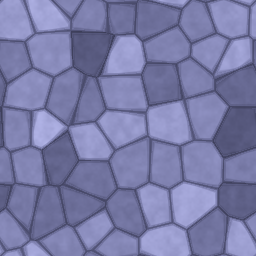
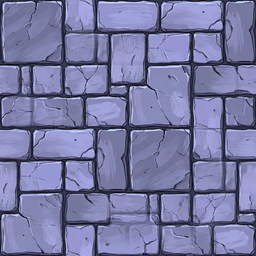
Give the crawl a painted room, and stop crushing a whole material into one tile
NOT THIS SESSION'S WORK. The art session's D267, committed on my user's instruction
rather than at its author's resting point. The account below is read off the entry and
the diff.

Asked: "I have the feeling that the art of this game does not follow one single
style. I like the backgrounds but not the iso game." Both halves were right, and the
second had a mechanical cause.

Counted off fresh captures, the game spoke six dialects, and the crawl was wearing the
wrong one. `iso_run.gd` is the only `UI.screen()` caller that names neither a scene nor
a zone, so it fell through to `PixelArt.backdrop()` — the screen with the most turns in
it was the last live user of the Kenney pixel set, on a clear colour, while every other
screen had a painting behind it. The comment two lines above the call said the
opposite. It now gets its own dungeon's battle backdrop at `UI.CRAWL_DIM` = 0.78.

The scale bug is why the materials had to be noise. `_draw_ground` mapped UV 0..1
across ONE tile, so one repeat of a 256px texture was crushed into 116x58 and every
feature arrived at about a fifth of its drawn size, cut off at every tile edge by a
deliberately discontinuous per-cell offset. Survivable for noise, fatal for paint — the
first painted crypt floor came back looking WORSE than the computed one it replaced,
because the picture was good and the projection destroyed it. The UV now comes off the
grid: `GROUND_UV_TILES` = 3, continuous across every shared edge, and the period does
[…]

diff --git a/DESIGN.md b/DESIGN.md
@@ -255,6 +255,7 @@ Entries are not in numeric order in the file below; this is the way in.
 | **D264** | [The endpoint generator is deleted, and two of its rules outlived it](#d264--the-endpoint-generator-is-deleted-and-two-of-its-rules-outlived-it) |
 | **D265** | [Fights got a shape, and the reason the 5x never assembles is the price list](#d265--fights-got-a-shape-and-the-reason-the-5x-never-assembles-is-the-price-list) |
 | **D266** | [A metric that measures the player, and it says the 5x was there all along](#d266--a-metric-that-measures-the-player-and-it-says-the-5x-was-there-all-along) |
+| **D267** | [The floor was drawn at a fifth of its size, so nothing painted on it could survive](#d267--the-floor-was-drawn-at-a-fifth-of-its-size-so-nothing-painted-on-it-could-survive) |
 
 **D1–D34 are not in that table.** They were settled before the log grew
 sections and live as bullets under [§4 Design decisions](#4-design-decisions).
@@ -18270,3 +18271,125 @@ per energy and this is a draw-quality effect.
 
 That is a reward that makes you worse, and until now there was no number in this tool that could
 show one.
+
+### D267 — The floor was drawn at a fifth of its size, so nothing painted on it could survive
+
+Asked: *"I have the feeling that the art of this game does not follow one single style. I like
+the backgrounds but not the iso game."*
+
+Both halves are right, and the second half had a mechanical cause nobody had looked for.
+
+#### Six dialects, and the crawl was wearing the wrong one
+
+Fresh captures first, because `docs/screenshots/` was from 2 August and predates D202 and D260.
+What the game speaks, counted off them:
+
+| dialect | where |
+|---|---|
+| painted, inked, dark | 12 dungeon backdrops, the scene and zone shots, the title screen, 35 enemy plates, ~100 card faces |
+| painted, but high key | 38 relic icons |
+| flat vector clip art | 30 power sigils |
+| computed noise and geometry | the iso floors, walls and props |
+| painted cutouts | the iso hero and 70 creature fronts |
+| Kenney 16x16 pixel | 5 zone patterns, 1 card sheet |
+
+The last row was supposed to be a dormant fallback. It was not. **`iso_run.gd` is the only
+`UI.screen()` caller in the game that names neither a scene nor a zone**, so it fell through to
+`PixelArt.backdrop()` — and the comment two lines above the call said the opposite. The screen
+with the most turns in it was the last live user of the pixel dialect, on a clear colour, while
+every other screen in the game had a painting behind it. It now gets its own dungeon's battle
+backdrop at `UI.CRAWL_DIM` = 0.78: the walk and the fight happen in the same room.
+
+#### The scale bug, which is why the materials had to be noise
+
+`gen_iso_art.gd` samples each terrain's ramp from the floor band of the backdrops that use it,
+so the computed materials agree with the paintings on COLOUR by construction. They agree on
+nothing else — no ink, no brush, no stonework — and that had been invisible for a reason that is
+arithmetic rather than taste.
+
+**Every diamond took the whole material.** `_draw_ground` mapped UV 0..1 across one tile with a
+per-cell offset, so one repeat of a 256px texture was crushed into 116x58 and every feature in
+it arrived at about a fifth of the size it was drawn at. A flagstone painted a third of the way
+across its texture arrived five to a tile and read as gravel. The offset was deliberately
+DISCONTINUOUS between neighbours as well, so every feature was also cut off at every tile edge.
+
+That is survivable for noise. It is fatal for anything painted, and it is why the first painted
+crypt floor came back looking WORSE than the computed one it replaced — the picture was good
+and the projection destroyed it.
+
+So the UV comes off the grid instead. A diamond's corners are the grid points
+`(x±0.5, y±0.5)`, so dividing by `GROUND_UV_TILES` = 3 gives one repeat every three tiles,
+continuous across every shared edge. A stone crossing a tile boundary continues on the other
+side. The per-cell offset is gone and its job — stopping the floor reading as wallpaper — goes
+to the period, which is now three tiles long instead of one.
+
+**The walls needed the same fix and their axes are not obvious.** A block's top face is in the
+floor's plane and takes the floor's UV. Its left face stands on the grid line `y + 0.5` running
+along X, and the left face of `(x+1, y)` starts exactly where it ends; its right face stands on
+`x + 0.5` running along Y, joined the same way to `(x, y+1)`. So the two side faces draw one
+unbroken course of masonry along whichever axis the wall runs. `WALL_UV_TILES` is 2 rather than
+3 because a side face is a 58px sliver where a floor diamond is 116px wide, and the same number
+would draw the wall's stone at half the size of the floor's.
+
+#### Ink and shadow, which the style rule had always asked for
+
+The paintings put a 2-3px dark outline on every foreground object and nothing the floor drew had
+one, so the painted hero read as a sticker laid on a texture. Two rules keep the new ink from
+becoming the lattice D87 deleted: **it is drawn on silhouettes, never on tiles** — a floor edge
+only where the neighbour is not ground, a rock edge only where the neighbour is not rock — so a
+run of blocks is one inked mass and a room is one inked slab.
+
+And every figure was hovering. D202 told the generator not to paint a drop shadow and
+`demagenta.gd` lifts whatever survived, which is right for the FILE. The shadow is now drawn by
+the view, so it lands on the ground the figure is standing on and stays put while a walking
+figure's gait lifts the body off it.
+
+#### A pink hairline on 93 of 110 files, on the day D202 reported none
+
+Zooming in on a standing stone to judge the ink found a magenta rim around it. `demagenta.gd`
+required `max(r,b) > KEY_MIN` and `KEY_MIN` was 0.35. **Measured across all 110 installed iso
+files, every surviving key pixel tops out between 0.30 and 0.349 and not one reaches 0.35** —
+because the rim is the key BLENDED WITH A DARK SUBJECT, which keeps the hue and loses the
+brightness. The gap rule and the brightness rule were reading the same rim from opposite ends
+and 14,556 pixels walked out between them. D202 reported zero because it measured with this
+threshold.
+
+The floor is now 0.12, and what makes that safe is a rule the brightness one was always a proxy
+for: the key is `(1, 0, 1)`, so what survives of it keeps green near zero in ABSOLUTE terms.
+Of the 14,556 pixels that pass the hue test, every one has green under 0.15 and 13,259 under
+0.05, and not one with a gap over 0.30 reaches 0.06. Painted violet fails the other way round —
+the mycelial lord's cap is high in green and low in gap — so it misses both halves rather than
+one. **22,606 pixels repainted across 93 files, 0 cleared, and a second run finds nothing.**
+
+#### The materials, and what a painting has done to it before it is installed
+
+The API route is shut (every image model reports a free-tier quota of zero), so these came
+through the Gemini web app. `tools/install_iso_material.gd` is what turns a browser capture into
+a material, and each of its three steps is a measurement rather than a taste:
+
+* **Seamless by offset-and-blend.** B is the source shifted half a period in both axes, so it is
+  continuous exactly where the source's seam is; a mask falling to zero at the border makes the
+  border entirely B and the middle entirely A, and B's own seam lands where it contributes
+  nothing. Scored with `gen_iso_art`'s own metric so the numbers are comparable.
+* **Normalised to a target mean luminance.** Not cosmetic. `TINT_OPEN`, `TINT_WALKED`,
+  `LIGHT_DIM` and `LIGHT_LIT` are all MULTIPLIERS on the material, tuned against a generated one
+  near 0.47. The first painted crypt floor measured 0.39 and its lit tiles came out within a few
+  percent of the walls. The painting is brought to the number rather than the four constants
+  being retuned per painting.
+* **The crop is given, never searched.** Autocrop trims a full-bleed material's own dark edges
+  and the only symptom is an aspect ratio nobody checks.
+
+**Installed: `floor_stone`, `floor_earth`, `floor_moss`, `floor_sand`, `rock_stone`,
+`rock_moss`, and the two generic fallbacks `floor` and `rock`.** `rock_earth` and `rock_sand`
+are still the generated materials, and that is a consistent state rather than a half-drawn one —
+the generator is the documented fallback and it is still the palette authority for all eight.
+The Warrens is the one floor where the difference is visible: its walls are flat where its floor
+is painted.
+
+Two things learned in the browser that are not in the skill. The daily image cap was never
+reached; what happens instead after about eight prompts is that **the composer keeps its text
+and the enabled Send button stops responding to clicks**, for minutes at a time, with no banner
+and no greyed model rows. And **a hex palette pushes the generator to the light end of it**: the
+earth ramp `#452f2e`..`#e3b2b0` is dusty rose, and asking for it by number produced two
+successive floors that read as skin. Naming the dark end and forbidding the light one by word —
+"never pink, never salmon, never rose" — is what fixed it.

diff --git a/ART.md b/ART.md
@@ -35,7 +35,7 @@ screens' worth of assets speak five unrelated dialects — four, as first counte
 |---|---|---|
 | **Painted, inked illustration** | all 12 dungeon backdrops | **This is the game.** Keep. |
 | **Flat vector illustration** | `main_menu.jpg` | *Was counted as inked here and it is not (D114) — no outline anywhere, a ninth the outline density of the rooms it shipped beside. Re-rolled four times since: D126 for the foreground, D134 for a frame that measured 41.5% green, D258 for the subject, and D260, which threw the violet rule out altogether. The file is `main_menu.png` now, a drowned crypt in cold teal; the installer writes PNG and deletes the superseded .jpg. **This row is the diagnosis as written, not the current state** — the dialect count that made it five is down to four.* |
-| **Kenney 16×16 pixel art** | 41 enemy sprites, 5 zone tiles, 1 card sheet | Off-style, and semantically arbitrary — *the 41 enemy sprites are gone (D89); the zone tiles and the card sheet remain* |
+| **Kenney 16×16 pixel art** | 41 enemy sprites, 5 zone tiles, 1 card sheet | Off-style, and semantically arbitrary — *the 41 enemy sprites are gone (D89); the zone tiles and the card sheet remain, and both are now fallbacks nothing reaches. The last live user was the isometric crawl, which named neither a scene nor a zone to `UI.screen()` and so fell through to the tiling pattern on the screen with the most turns in it — fixed in D267, which gives it the dungeon's own backdrop.* |
 | **Hand-authored 16×16 mono glyphs** | 13 in `PixelArt.GLYPHS` | Off-style, too small to read as art |
 | **A stretched illustration pretending to be a frame** | `ui_button.png`, `ui_panel.png` | Actively damaging — see below |
 
@@ -457,6 +457,25 @@ models — 11 for the graph map, 14 for the dice board, one reveal frame for the
 draw. All three models were deleted in D94 after D88 moved every dungeon onto the
 isometric crawl. The crawl's own markers are generated by `tools/gen_iso_markers.gd`
 into `assets/art/iso/`, so they are not a shopping-list item and never were.
+
+**Its MATERIALS are half painted now, and that half is a shopping-list item (D267).** The
+floor and rock surfaces come off `tools/gen_iso_art.gd`, which samples each terrain's ramp
+from the backdrops that use it — so the generated set agrees with the paintings on colour
+and on nothing else. Since `GROUND_UV_TILES` and `WALL_UV_TILES` stopped crushing a whole
+256px repeat into one 116×58 diamond, that gap is visible, and painted materials installed
+over the generated ones by `tools/install_iso_material.gd` are what closes it.
+
+| role | state |
+|---|---|
+| `floor_stone` `floor_earth` `floor_moss` `floor_sand` | painted |
+| `rock_stone` `rock_moss` | painted |
+| `floor` `rock` (generic fallbacks) | painted, from the stone pair |
+| **`rock_earth` `rock_sand`** | **still generated — the two left to draw** |
+
+The Warrens is where the gap shows: a painted floor under flat walls. Ask for a wall the
+way D267 did — head-on, four courses across, the terrain's dark colours named as WORDS as
+well as hexes, flat lighting, nothing pure black or white — then install with
+`--luma=0.42`, which is what the wall tints were tuned against.
 
 `tools/art_manifest.gd` went on briefing all 26 for another eleven decisions, because
 deleting a feature does not touch the tool that advertises it — removed in D111, which
